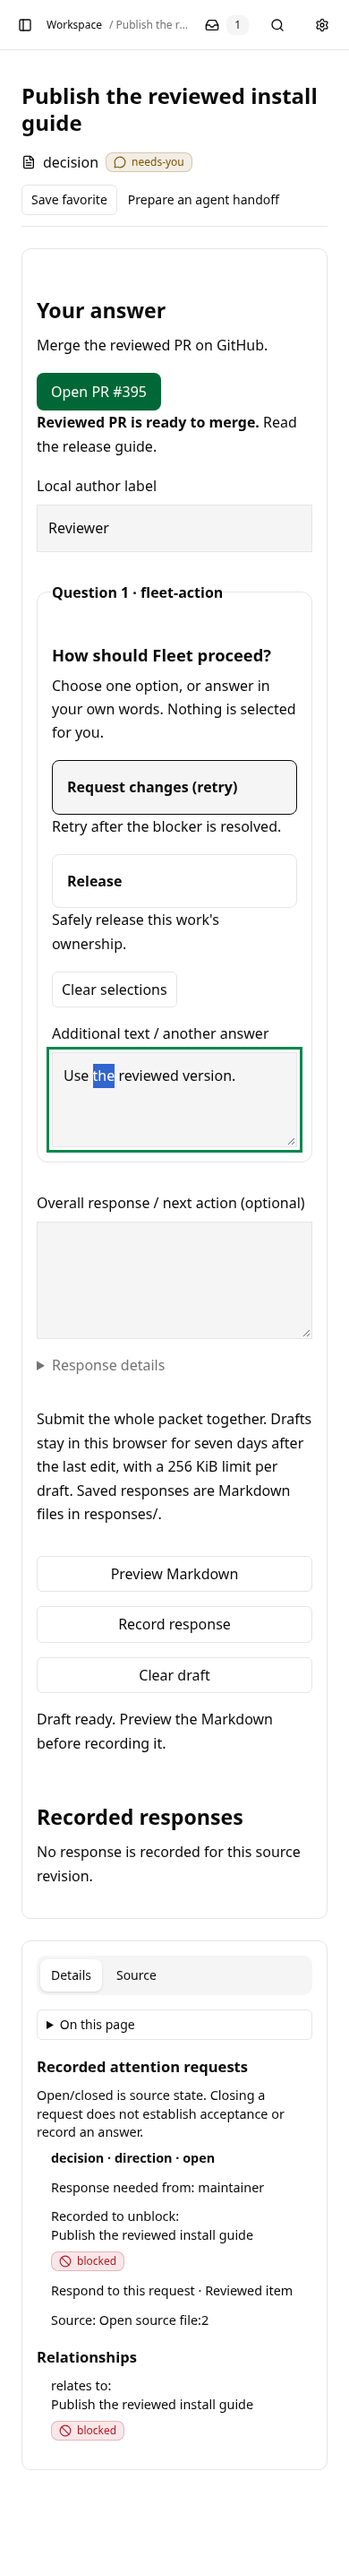
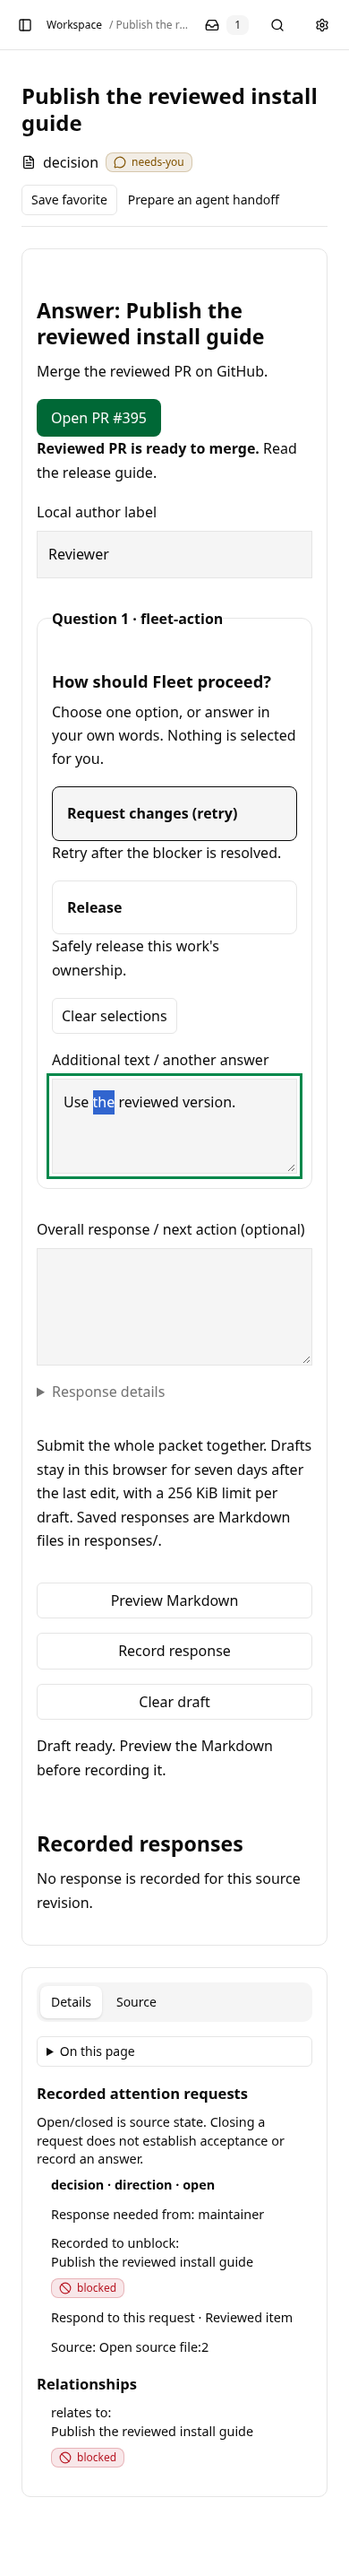
Name answer cards for their items and show complete reasons once

diff --git a/packages/work-board/src/client/react/answerCard.dom.spec.tsx b/packages/work-board/src/client/react/answerCard.dom.spec.tsx
@@ -4,7 +4,14 @@ import { afterEach, beforeEach, expect, it, vi } from "vitest";
 import { eventually, expectNoReactWarnings } from "@shivaedev/effect-react/testing.ts";
 import { documentQuery } from "#client/page/routeQuery.ts";
 import { session } from "#client/session.ts";
-import { answerCardFixture, DECISION_REASON, decisionFile, decisionId, readyDecisionFixture } from "#test/answerCardFixture.ts";
+import {
+	answerCardFixture,
+	DECISION_REASON,
+	decisionFile,
+	decisionId,
+	paragraphDecisionFixture,
+	readyDecisionFixture,
+} from "#test/answerCardFixture.ts";
 import { answerInput, answerPrompt, responseClick } from "#test/answerDraft.tsx";
 import { browserStorage } from "#test/browserStorage.ts";
 import { renderBoard } from "#test/react.tsx";
@@ -25,10 +32,10 @@ afterEach(() => {
 });
 const url = `/_board/item/${decisionId}/`;
 
-it.each(["fenced", "nested"])(
+it.each(["fenced", "nested", "paragraphs"])(
 	"renders a managed decision with a %s reason once below its header and uses the unblocked item's title",
 	async (mode) => {
-		const files = { ...answerCardFixture };
+		const files = { ...(mode === "paragraphs" ? paragraphDecisionFixture : answerCardFixture) };
 		if (mode === "nested") {
 			const source = files[decisionFile];
 			if (source === undefined) {
@@ -46,10 +53,16 @@ it.each(["fenced", "nested"])(
 			expect(view.container.querySelector('[aria-label="File location"]')?.textContent).toContain("Publish the install guide");
 			expect(view.container.querySelector('[aria-label="File location"]')?.textContent).not.toContain(decisionId);
 			expect(header?.nextElementSibling?.classList.contains("answer-cards")).toBe(true);
-			expect(view.container.querySelector("#answer-title-direction")?.textContent).toBe("Your answer");
+			expect(view.container.querySelector("#answer-title-direction")?.textContent).toBe("Answer: Publish the install guide");
 			expect(view.container.querySelector(".answer-reason strong")?.textContent).toBe("Which publishing path should we take?");
 			expect(view.container.querySelector(".answer-reason a")?.getAttribute("href")).toBe("https://example.com/releases");
 			expect(view.container.querySelector("article.doc")?.textContent).not.toContain("Which publishing path");
+			if (mode === "paragraphs") {
+				expect(view.container.querySelector("article.doc")?.textContent).toContain("Preserve this background before the decision.");
+				expect(view.container.querySelector("article.doc")?.textContent).toContain("Preserve this conclusion after the decision.");
+				expect(view.container.querySelector("article.doc")?.textContent).not.toContain("Read the release guide.");
+				expect(view.container.querySelectorAll(".answer-reason p")).toHaveLength(2);
+			}
 			expect([...view.container.querySelectorAll(".question-choice")].map((button) => button.textContent)).toEqual([
 				"Publish now · RecommendedShip the reviewed guide with this release.",
 				"Wait for reviewKeep the work blocked until another review.",

diff --git a/packages/work-board/src/server/document/answerBody.ts b/packages/work-board/src/server/document/answerBody.ts
@@ -34,20 +34,40 @@ export function answerBody(document: MetadataDocument, requests: readonly Docume
 }
 
 function repeatedReason(nodes: import("mdast").RootContent[], source: string, cards: readonly DocumentRequest[]) {
+	const reasons = cards.flatMap((request) => (request.preview ? [reasonMarkdown(request.preview.reason)] : []));
 	const removed = new Set<number>();
-	for (const [index, node] of nodes.entries()) {
-		const text = node.type === "code" ? node.value : source.slice(node.position?.start.offset, node.position?.end.offset).trim();
-		if (!cards.some((request) => request.preview && reasonMarkdown(request.preview.reason) === reasonMarkdown(text))) {
+	for (const [index] of nodes.entries()) {
+		const end = repeatedPassageEnd(nodes, source, index, reasons);
+		if (end === undefined) {
 			continue;
 		}
-		removed.add(index);
+		for (let position = index; position <= end; position += 1) {
+			removed.add(position);
+		}
 		const previous = nodes[index - 1];
-		const next = nodes[index + 1];
+		const next = nodes[end + 1];
 		if (previous?.type === "heading" && previous.depth > 1 && (!next || (next.type === "heading" && next.depth <= previous.depth))) {
 			removed.add(index - 1);
 		}
 	}
 	return removed;
+}
+
+function repeatedPassageEnd(nodes: import("mdast").RootContent[], source: string, start: number, reasons: readonly string[]) {
+	let matched: number | undefined;
+	const first = nodes[start];
+	for (let end = start; end < nodes.length; end += 1) {
+		const text =
+			end === start && first?.type === "code" ? first.value : source.slice(first?.position?.start.offset, nodes[end]?.position?.end.offset);
+		const passage = reasonMarkdown(text);
+		if (!reasons.some((reason) => reason.startsWith(passage))) {
+			break;
+		}
+		if (reasons.includes(passage)) {
+			matched = end;
+		}
+	}
+	return matched;
 }
 
 function promptInCard(node: import("mdast").RootContent, cards: readonly DocumentRequest[]) {

diff --git a/packages/work-board/src/server/responses/answerReading.dom.spec.ts b/packages/work-board/src/server/responses/answerReading.dom.spec.ts
@@ -1,6 +1,7 @@
 import { Effect } from "effect";
 import { afterEach, expect } from "vitest";
 import { it } from "@shivaedev/effect-test/it.ts";
+import { decisionId, paragraphDecisionFixture } from "#test/answerCardFixture.ts";
 import { type Folder, folder, type RunningBoard, rawGet, startBoard } from "#test/board.ts";
 import { type OpenPage, openPage } from "#test/browser.ts";
 import { capturedQuestionnaire, questionnaireSource, scopedQuestionnaire } from "#test/questionnaire.ts";
@@ -76,4 +77,12 @@ it.live.each(["open", "closed"])("keeps answer cards scoped when the second requ
 		const ids = [...page.document.querySelectorAll(".answer-cards [id]")].map((element) => element.id);
 		expect(new Set(ids).size).toBe(ids.length);
 	}
+});
+
+it.live("renders the unblocked item's title in the server answer card", function* () {
+	notes = folder(paragraphDecisionFixture);
+	board = yield* startBoard(notes.root, "home.md", undefined, true);
+	const response = yield* rawGet(board, `/_board/item/${decisionId}/`);
+	expect(response.status).toBe(200);
+	expect(response.body).toContain("<h2>Answer: Publish the install guide</h2>");
 });

diff --git a/packages/work-board/src/test-support/answerCardFixture.ts b/packages/work-board/src/test-support/answerCardFixture.ts
@@ -69,3 +69,11 @@ Safely release this work's ownership.
 ::::
 `,
 };
+
+export const PARAGRAPH_REASON = "**Which publishing path should we take?**\n\nRead the [release guide](https://example.com/releases).";
+export const paragraphDecisionFixture = {
+	...answerCardFixture,
+	[decisionFile]: (answerCardFixture[decisionFile] ?? "")
+		.replaceAll(JSON.stringify(DECISION_REASON), JSON.stringify(PARAGRAPH_REASON))
+		.replace(DECISION_REASON, `Preserve this background before the decision.\n\n${PARAGRAPH_REASON}\n\nPreserve this conclusion after the decision.`),
+};

diff --git a/packages/work-board/src/server/responses/composerHtml.ts b/packages/work-board/src/server/responses/composerHtml.ts
@@ -43,7 +43,7 @@ export const composerHtml = Effect.fn("WorkBoard.composerHtml")(function* (
 
 function responseHeading(q: QuestionPreview, standalone: boolean, card: { readonly title: string } | undefined) {
 	if (card) {
-		return "Your answer";
+		return `Answer: ${escapeHtml(card.title)}`;
 	}
 	return standalone ? "Answer this question" : `Respond to ${escapeHtml(q.item)} / ${escapeHtml(q.request)}`;
 }

diff --git a/packages/work-board/src/client/react/AnswerPanel.tsx b/packages/work-board/src/client/react/AnswerPanel.tsx
@@ -56,7 +56,7 @@ function AnswerCard({ document: data, request }: { readonly document: Document; 
 
 function cardTitle(request: DocumentRequest, closed: boolean) {
 	if (request.open) {
-		return "Your answer";
+		return `Answer: ${request.title ?? "this question"}`;
 	}
 	return closed ? "Question closed" : "Answer unavailable";
 }

diff --git a/packages/work-board/changes/answer-card.md b/packages/work-board/changes/answer-card.md
@@ -1,7 +1,7 @@
 ### Changed
 
 - Open requests show an answer card directly below the item header, using the existing response form and retained drafts. The separate respond link opens and focuses that card.
-- Managed decisions use the unblocked item's title, render their reason as Markdown, and show the question once. Generated identities stay in Source instead of the item header.
+- Managed decisions use the unblocked item's title, render their reason as Markdown, and show the complete question once, including unfenced multi-paragraph reasons. Page and card headings name the unblocked item. Generated identities stay in Source instead of the item header.
 - Decisions can use frontmatter options and a recommended choice. Answer cards lead with the recommendation and relevant PR actions, and directive choices use human labels. Decision and question headers show request state and omit missing fields. Response validation waits for an attempt, with the last saved local author label prefilled.
 - Typed document requests include optional `title` and `sourceOpen` fields; `DocumentViewProps` accepts an optional `answer` node below the header.
 - `documentHtml` accepts optional answer-card HTML, and `composerHtml` accepts an optional card title.
